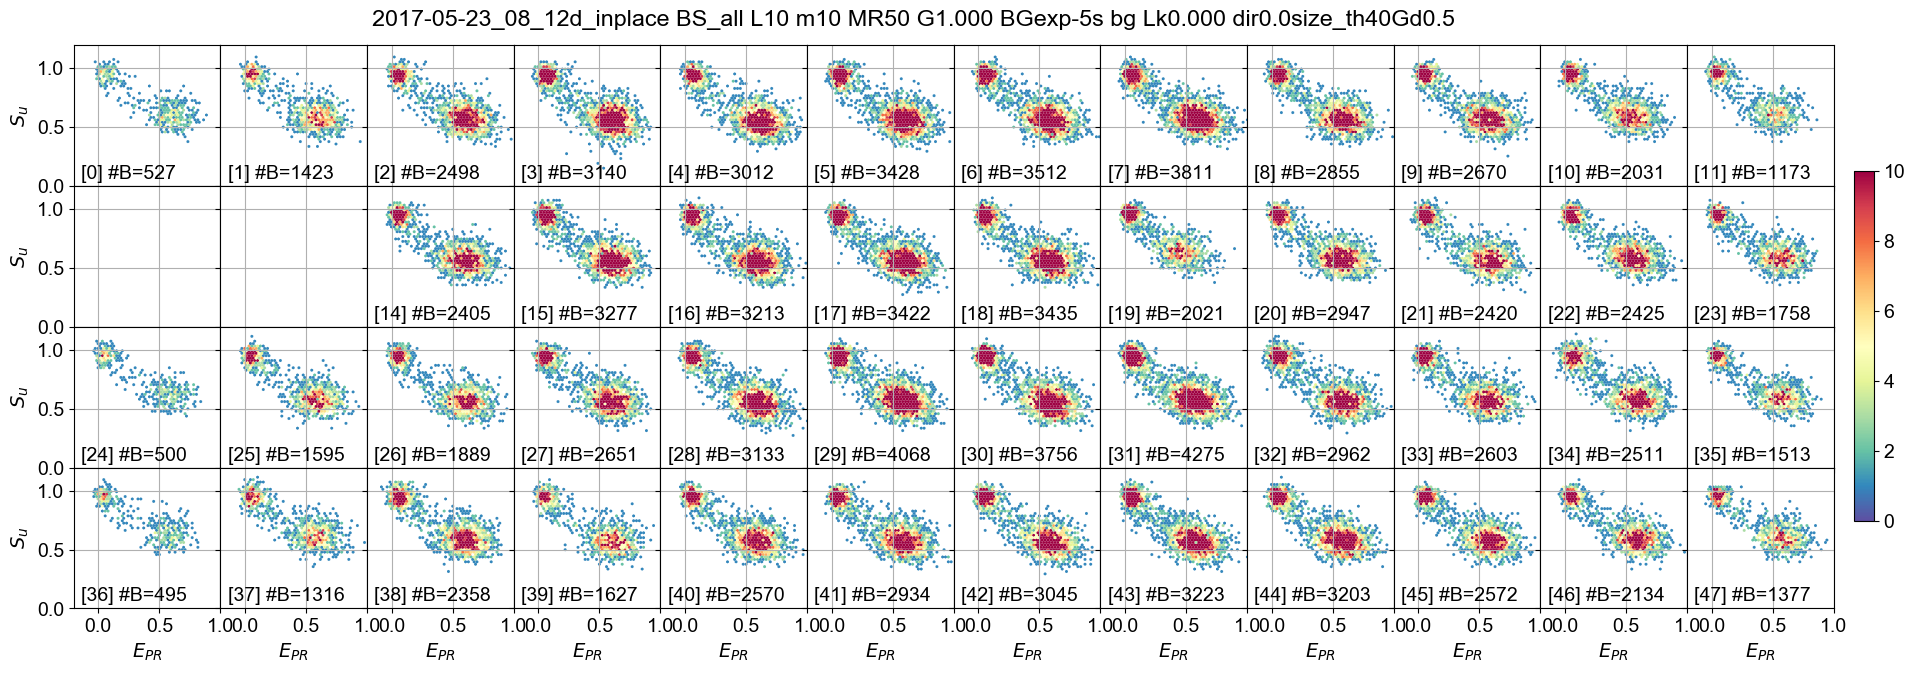
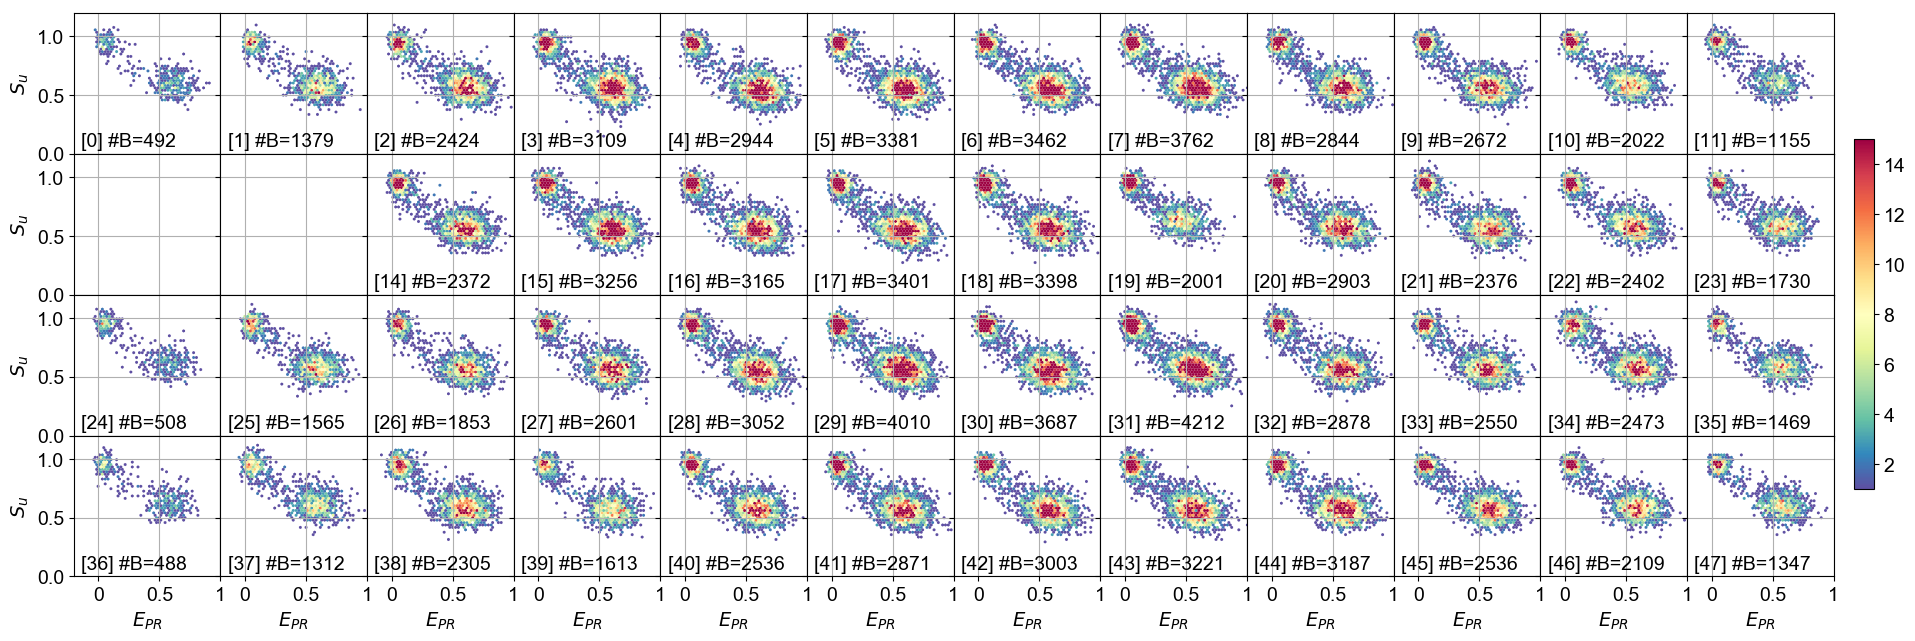
update

diff --git a/main.tex b/main.tex
@@ -577,9 +577,9 @@ burst search are identical to figure~\ref{fig:alexhist48all12d}, while
 burst selection was tailored to select only the FRET population: a burst is
 selected if the number of counts in the $D_{ex}A_{em}$ and $DA_{ex}A_{em}$
 % * <michalet@chem.ucla.edu> 2017-07-29T00:10:17.075Z:
-% 
+%
 % check the stream definitions.
-% 
+%
 % ^.
 streams are both larger than 20. The legend in each subplot
 reports spot number in brackets and number of bursts (\#B).%
@@ -617,10 +617,10 @@ For more details see the
 
 Fig.~\ref{fig:alexhist48all12d} shows E-S histograms for the
 % * <michalet@chem.ucla.edu> 2017-07-29T00:06:03.848Z:
-% 
+%
 % > shows
 % A reporter " reports on". A figure does not. At most, it " reports"  something.
-% 
+%
 % ^.
 dsDNA sample with a 12 bp separation between D and A,
 obtained after burst search and size-selection
@@ -660,9 +660,23 @@ Fig.~\ref{fig:alexhist48all22d}.
 
 \subsection{Pooling data from all spots}
 \label{sec:alexpax-comp}
-To illustrate the high-throughput performance of the 48-spot system, we
-built an E-S histogram accumulating bursts from all spots over a short (15~s)
-time window (Fig.~\ref{fig:alex_mspot_15}). In principle,
+
+\begin{figure}
+\includegraphics[width=\columnwidth]{figures/2017-07-11_06_12d_22d_ES-hist-collapsed-all-pops}
+\caption{\label{fig:ES48mix-all}
+TODO
+}
+\end{figure}
+
+\begin{figure}
+\includegraphics[width=\columnwidth]{figures/2017-07-11_06_12d_22d_ES-hist-collapsed-FRET-pops}
+\caption{\label{fig:ES48mix-fret}
+TODO
+}
+\end{figure}
+
+The final step of multispot measurements merging data from all
+spots in order to accumulate bursts at an higher pace. In principle,
 non-uniformities between different spots can be taken into account
 by decomposing each correction factor $\gamma$ and $\beta$
 (Eq.~\ref{eq:gamma} and~\ref{eq:beta}) as a product of two factors:
@@ -671,29 +685,53 @@ which is a per-spot relative correction.
 The per-spot correction of $\gamma$ and $\beta$ can be easily computed
 from a measurement of a static FRET sample
 (details in appendix~\ref{sec:perchcorr}).
-In Fig.~\ref{fig:alex_mspot_15}, we reported raw $E_{PR}$ and $S_u$
-values without any spot-specific adjustments for simplicity and because
-of the good uniformity across spots.
+In the following, for simplicity and due to the good uniformity,
+we do not any spot-specific adjustment.
 
-For comparison, Fig.~\ref{fig:alex_sspot_15} shows a similar histogram
-obtained by accumulating bursts for 15~s during a measurement of the
-same doubly-labeled dsDNA construct using the
-single-spot {\usalex} setup. To minimize differences
-in concentration, the same gasket-enclosed sample was first measured
+Fig.~\ref{fig:ES48mix-all} shows the E-S histograms of a mixture
+of two dsDNA constructs with donor-acceptor separation of 12 and
+22~bp (see section~\ref{sec:analysis}),
+resulting mean $E_{PR}$ of $\sim0.6$ and $0.15$ respectively.
+A significant D-only population is visible as peak close to $E_{PR}=0.05$
+$S_u=1$. Due to the relatively low PDE
+of the acceptor channel (see section~\ref{sec:detectors}), the separation
+of D-only and FRET populations could in principle be problematic.
+Fig.~\ref{fig:ES48mix-fret} shows the same E-S histogram after
+D-only filtering. For this purpose,
+we set a threshold of 12.5 photons on the background-corrected
+$F_{DA_{ex}A_{em}}$ counts in each burst.
+We notice that the selection effectively removes the large D-only
+peak, isolating the FRET populations without a significant loss
+of FRET bursts.
+
+In order to showcase the high-throughput capability of the multispot
+system we compared short acquisitions of the same sample in both the
+multispot and a standard single-spot {\usalex} setup.
+In Fig.~\ref{fig:alex_mspot_5}, we report the E-S histogram
+built from a 5~s acquisition of a doubly-labeled dsDNA measured
+on the 48-spot PAX setup.
+For comparison, Fig.~\ref{fig:alex_sspot_5} shows a measurement of the
+same sample obtained accumulating bursts for 5~s on the single-spot
+{\usalex} setup.
+To minimize differences in concentration,
+the same gasket-enclosed sample was first measured
 on the {\usalex} setup and subsequently measured in the multispot setup.
-The resulting number of bursts detected in the
-multispot measurement are about 24 times larger than in the
-single-spot measurement. This factor is smaller that the
-the 46-fold increase theoretically expected (discarding the two spots
-with malfunctioning pixels). This discrepancy can be explained by two factors.
-First, the decreasing power in the lateral spots causes smaller bursts and
+In both cases we performed the same burst search with a constant
+rate-threshold of 50~kcps.
+For burst selection, we used a minimum threshold of 40 photons
+for the $gamma$-corrected burst size.
+In principle, we expect a 46X "gain" in burst accumulation rate
+in the multispot setup (48 minus two non-functional spots). However,
+many factors contribute reducing this theoretical limit.
+First, the decreasing power in the lateral spots (see
+Fig.~\ref{fig:patternfit}) causes smaller bursts and
 results in less bursts surviving the size-selection with a given threshold.
-Second, the detection efficiency of the SPAD array in the red region
+In addition, the detection efficiency of the SPAD array in the red region
 of the spectrum is at least 2-fold lower than that of the corresponding
 SPAD in the single-spot setup (see section~\ref{sec:detectors}).
 This more than halves the signal in the A-SPAD, resulting in smaller bursts
-and, as before, less bursts with sizes above a given threshold.
-Both issues can be solved in future iterations of the setup.
+and, as before, less bursts above a given threshold.
+Both issues can be in principle solved in future iterations of the setup.
 The excitation uniformity can be increased
 using flat-top optics before the LCSO-SLM modulation,
 while the lower PDE can be overcome using new red-enhanced SPAD
@@ -712,23 +750,23 @@ In this case, 500 bursts per slice maybe sufficient,
 resulting in a time resolution < 5~s with the current setup.
 To avoid dead time during mixing, however, the multispot setup needs to be
 equipped with a microfluidic mixer than can mix and flow a sample
-in << 1~s.
+in $\ll$~1~s.
 
 \begin{figure}
-\includegraphics[width=\columnwidth]{figures/2017-05-23_08_12d_alex_jointplot_15s}
-\caption{\label{fig:alex_mspot_15}
-Multispot ALEX histogram obtained from 15~s of acquisition by pooling bursts
-from all 48 spots.
+\includegraphics[width=\columnwidth]{figures/2017-07-16_02_12d_1000pM_alex_jointplot_5s_Dex}
+\caption{\label{fig:alex_mspot_5}
+48-spot E-S histogram obtained from 5~s of acquisition by pooling bursts
+from all the 46 active spots.
 For more details see the
 \href{http://nbviewer.jupyter.org/github/tritemio/48-spot-smFRET-PAX-analysis/blob/master/smFRET-PAX\_single\_pop-2017-05-23\_08\_12d.ipynb}{smFRET-PAX\_single\_pop-2017-05-23\_08\_12d} notebook.
 }
 \end{figure}
 
 \begin{figure}
-\includegraphics[width=\columnwidth]{figures/2017-06-11_000_12d_alex_jointplot_15s}
-\caption{\label{fig:alex_sspot_15}
-Single-spot E-S histogram obtained from 15~s of acquisition for the same
-sample as in Fig.~\ref{fig:alex_mspot_15}.
+\includegraphics[width=\columnwidth]{figures/2017-07-16_003_12d_alex_jointplot_5s}
+\caption{\label{fig:alex_sspot_5}
+Single-spot E-S histogram obtained from 5~s of acquisition for the same
+sample as in Fig.~\ref{fig:alex_mspot_5}.
 For more details see the
 \href{http://nbviewer.jupyter.org/github/tritemio/48-spot-smFRET-PAX-analysis/blob/master/us-ALEX\_analysis-2017-06-11\_000\_12d.ipynb}{us-ALEX\_analysis-2017-06-11\_000\_12d} notebook.
 }
